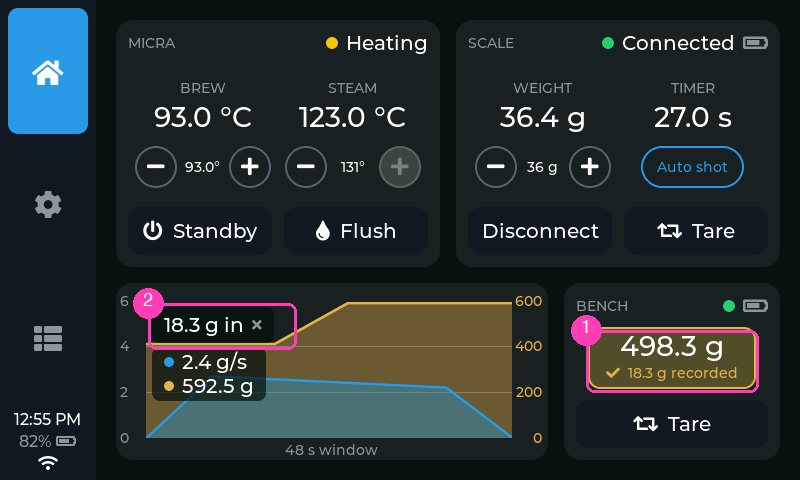
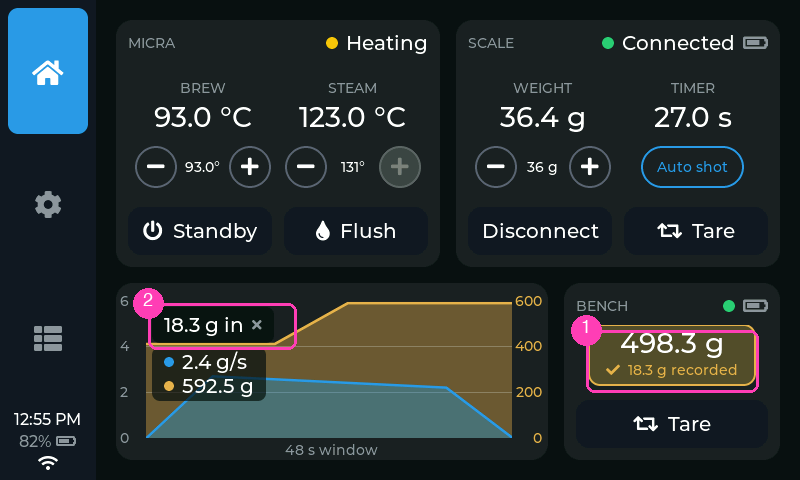
home: the beside bench card's weight sits 3 dp higher — air between the value and the stepper (owner)

Changed region(s): [[0.7188, 0.6562, 0.9688, 0.8125]]

diff --git a/src/ui/home_tab.cpp b/src/ui/home_tab.cpp
@@ -1244,6 +1244,9 @@ lv_obj_t* build_bench_panel(lv_obj_t* parent, const lv_font_t* cap_font,
       lv_obj_set_style_pad_top(blk, 0, 0);
       lv_obj_set_style_pad_bottom(blk, 0, 0);
       lv_obj_set_style_pad_row(card, ui::dp(8), 0);
+      // The weight sits a little higher than the layout puts it, into the
+      // header gap, so the stepper gets air under the value (owner).
+      lv_obj_set_style_translate_y(blk, -ui::dp(3), 0);
     }
     lv_obj_set_style_pad_top(body, 0, 0);
     make_stepper_group(body, btn_size, symbol_font, set_font,
